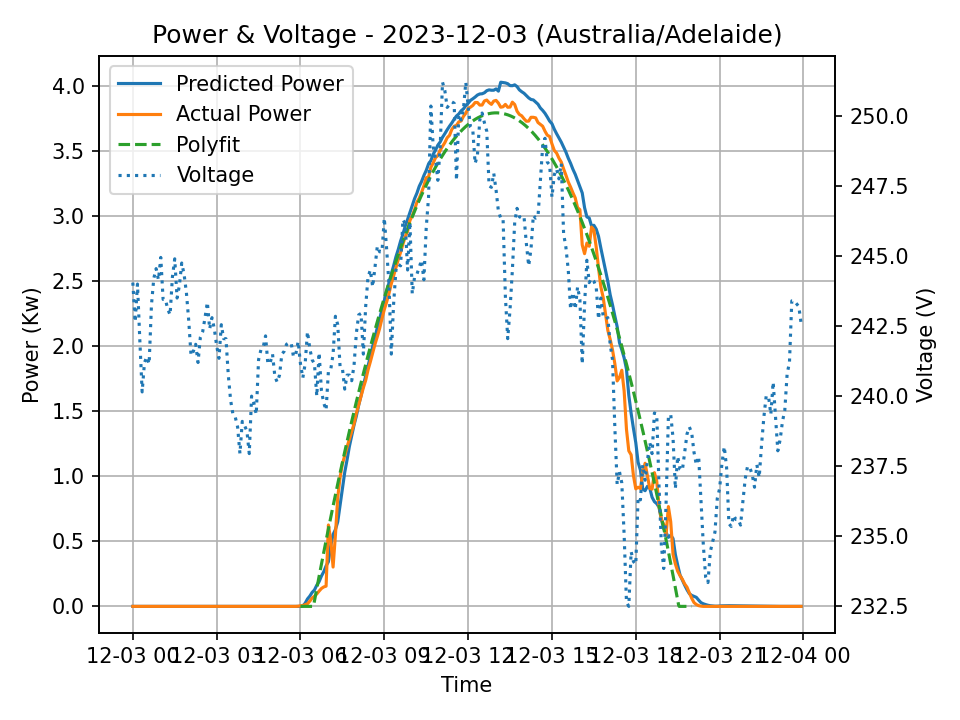
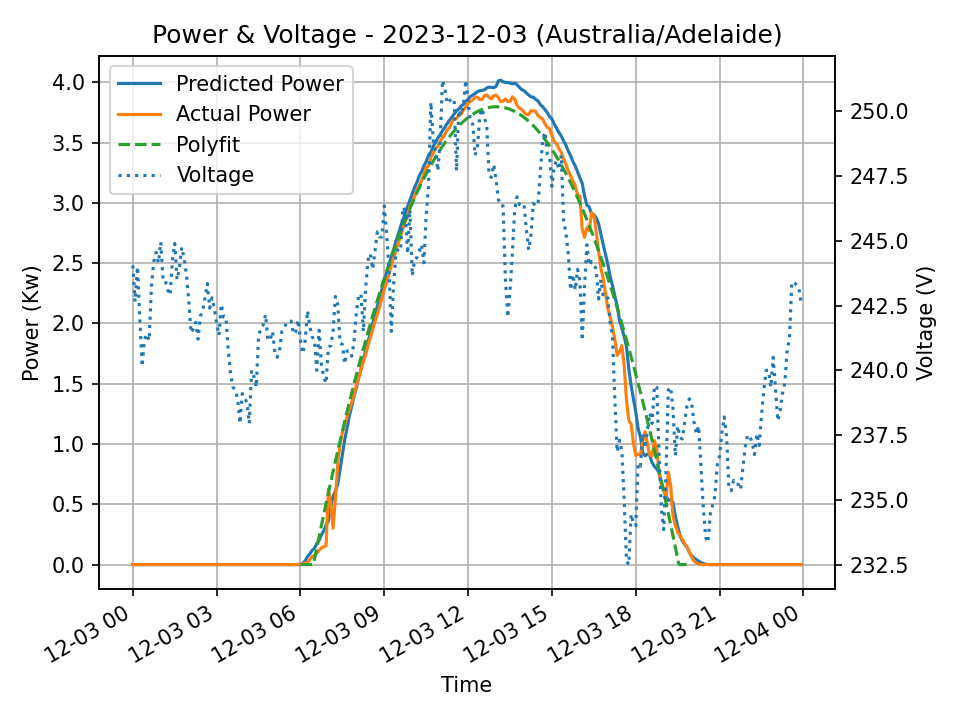
Updated x axis of graphs and additional pictures

diff --git a/README.md b/README.md
@@ -23,7 +23,7 @@ This notebook:
 Below are sample outputs that demonstrate the value of dynamic neural network predictions. We are able to accurately predict the photovoltaic energy absorbed by inverters throughout the day with small variances. This is useful as sudden disruptions or unexpected anti-islanding will display a signficant outlier in the graph.
 
 ![Power vs GHI on 2023-12-03](https://github.com/MonicaBian/NeuralNetwork-EnergyPrediction/blob/main/Images/power_ghi_2023-12-07.png)
-
+![Power vs GHI on 2023-12-03](https://github.com/MonicaBian/NeuralNetwork-EnergyPrediction/blob/main/Images/power_voltage_2023-12-07.png)
 
 #  Quantitative Analysis 
 To support our results, we provide a quantitative view that measures the accuracy of our predictions against the known ground truth for the Decemeber dataset.
